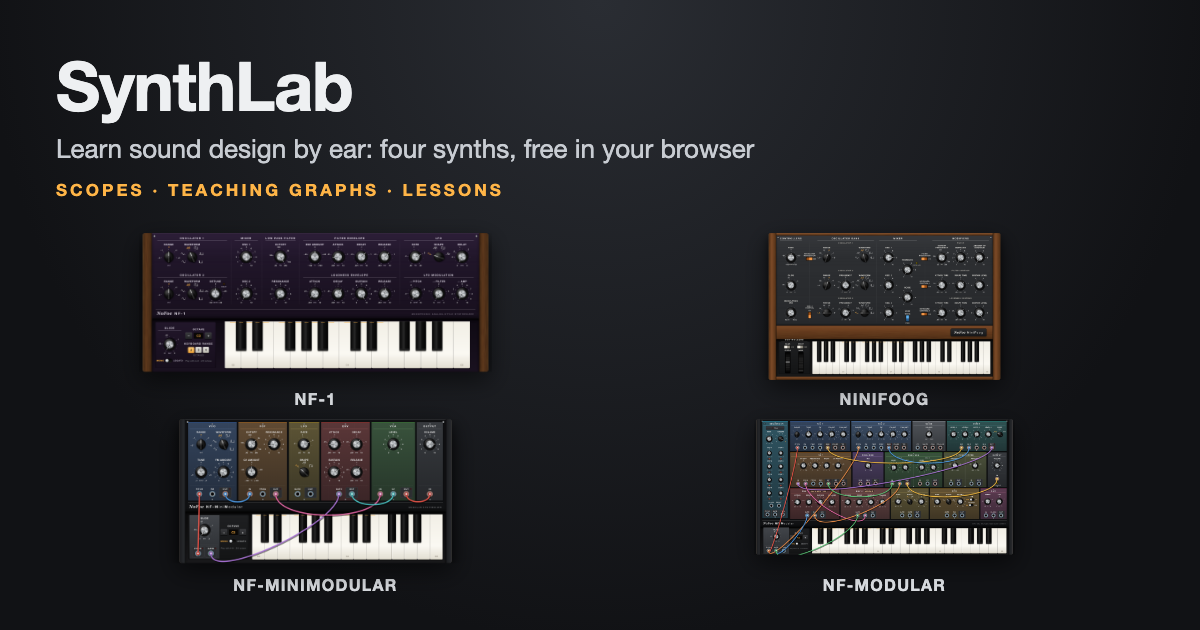
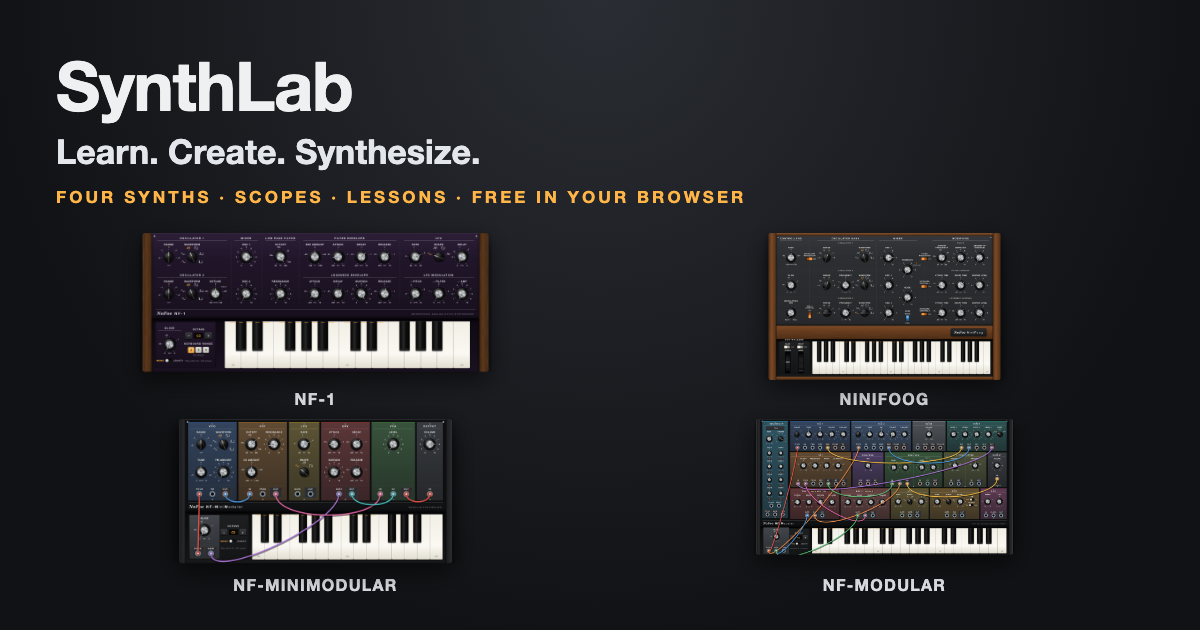
Tagline: Learn. Create. Synthesize.

Changed region(s): [[0.0308, 0.2111, 0.6475, 0.3317]]

diff --git a/index.html b/index.html
@@ -5,11 +5,11 @@
   <meta name="viewport" content="width=device-width, initial-scale=1">
   <title>SynthLab</title>
   <!-- what a link to SynthLab shows when it is shared (messages, email, social media) -->
-  <meta name="description" content="Learn sound design by ear: four synths (NF-1, NiniFoog, NF-MiniModular and NF-Modular) with scopes, teaching graphs and lessons, free in your browser.">
+  <meta name="description" content="Four synths (NF-1, NiniFoog, NF-MiniModular and NF-Modular) with scopes, teaching graphs and lessons, free in your browser.">
   <meta property="og:type" content="website">
   <meta property="og:site_name" content="SynthLab">
-  <meta property="og:title" content="SynthLab: learn sound design by ear">
-  <meta property="og:description" content="Learn sound design by ear: four synths (NF-1, NiniFoog, NF-MiniModular and NF-Modular) with scopes, teaching graphs and lessons, free in your browser.">
+  <meta property="og:title" content="SynthLab: Learn. Create. Synthesize.">
+  <meta property="og:description" content="Four synths (NF-1, NiniFoog, NF-MiniModular and NF-Modular) with scopes, teaching graphs and lessons, free in your browser.">
   <meta property="og:url" content="https://roryawalker.github.io/SynthLab/">
   <meta property="og:image" content="https://roryawalker.github.io/SynthLab/img/share.png">
   <meta property="og:image:width" content="1200">

diff --git a/README.md b/README.md
@@ -1,6 +1,6 @@
 # SynthLab
 
-**Learn sound design by ear.** SynthLab is a browser-based virtual-analogue synthesiser built for teaching synthesis at university level, with an oscilloscope, a spectrum analyser and gamified lessons where students match target sounds.
+**Learn. Create. Synthesize.** SynthLab is a browser-based virtual-analogue synthesiser built for teaching synthesis at university level, with an oscilloscope, a spectrum analyser and gamified lessons where students match target sounds.
 
 **Play it:** https://roryawalker.github.io/SynthLab/
 
